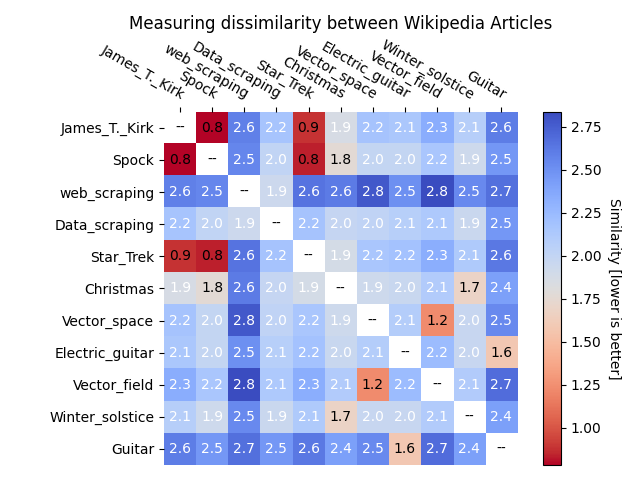
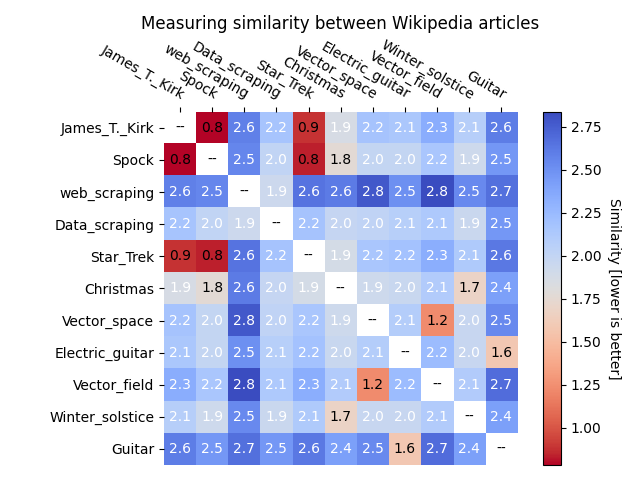
Fix image title: dissimilarity -> similarity,  for clarity

Changed region(s): [[0.1875, 0.0312, 0.875, 0.0625]]

diff --git a/similarity.py b/similarity.py
@@ -68,7 +68,7 @@ im, cbar = heatmap(
 )
 texts = annotate_heatmap(im, valfmt="{x:.1f}")
 
-plt.title("Measuring dissimilarity between Wikipedia Articles")
+plt.title("Measuring similarity between Wikipedia articles")
 
 plt.tight_layout()
 plt.show()
